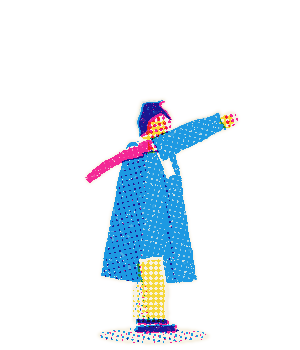
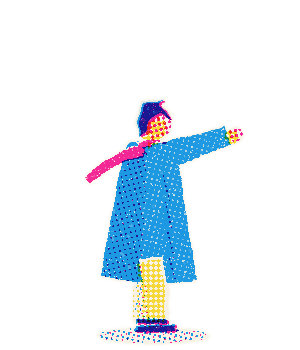
design: 안내 3·4페이지(징검다리·널뛰기) + 2페이지 남자 팔 이음 (Refs #116)
- 2026-11-03 19:30 오너: 1·2 품질 좋다 → 3·4페이지 추가, 2페이지 남자 팔이 몸과 잘려 보이는 것 수정.
- 3 징검다리: 언덕에서 흘러나와 앞으로 넓어지는 개울 · 징검돌 · 버드나무 · 물레방아 · 오리. 포니테일은 첫 돌에서 팔 벌려 균형,
  두루마기는 돌 사이를 뛰어 건너고, 쪽머리는 끝 돌. 4 널뛰기 마당: 돌담·담 기와 · 담 너머 기와·초가 지붕 · 장독대 · 오색 줄.
  포니테일은 높은 끝 위로 뛰어오르고, 두루마기는 가운데 앉아 판을 누르고, 쪽머리는 낮은 끝에 내려앉는다.
- 3페이지부터 인물 자리를 사람마다 받는다(OnboardingScroll.json figures). 1·2페이지 규칙(가운데 + 간격)은 그대로.
- 2페이지 두루마기: 든 팔 소매 뿌리를 몸 안쪽으로 넣고 둥근 어깨, 동정은 목 둘레만(흰 띠가 팔 밑으로 내려와 잘려 보였다).
- 그림은 1~4 구간(JPEG 4:4:4 q90, 약 14.4MB). 1·2페이지 카메라 화면 안 화소는 이전과 같다(달라진 곳은 화면 아래 바깥 4pt).
- 안내 테스트 712개 통과, Xcode 무서명 빌드 성공.

Claude-Session: https://claude.ai/code/session_0169kyDNcQssLsG4JY4DHaG7

Changed region(s): [[0.48, 0.3143, 0.81, 0.5143]]

diff --git a/Sources/OnboardingScroll.swift b/Sources/OnboardingScroll.swift
@@ -1,13 +1,27 @@
 import AppKit
 import SwiftUI
 
-/// 2026-11-03 (#116): 안내 1·2 두루마리 무대 — 긴 리소 그림 한 장 위를 카메라가 트럭·푸시 인 한다(앱 안에서 실시간).
+/// 2026-11-03 (#116): 안내 1~4 두루마리 무대 — 긴 리소 그림 한 장 위를 카메라가 트럭·푸시 인 한다(앱 안에서 실시간).
 /// 오너 결정(2026-11-03 17:46): 3D 세트 없이 그림 한 장 + 앱 안 카메라, 사람은 새로 그린 세 사람.
 /// 그림·카메라 정거장·인물 자리의 정본은 비공개 haneul-art `onboarding/`(scroll.py · people.py)이 내보낸
 /// OnboardingScroll.json · OnboardingPeople.json이다. 여기에 값을 옮겨 적지 않는다.
 enum OnboardingScrollArt {
     struct Station: Decodable { let page: Int; let cx: CGFloat; let cy: CGFloat; let zoom: CGFloat }
-    struct PeopleAt: Decodable { let page: Int; let x: CGFloat; let y: CGFloat; let scale: CGFloat; let spacing: CGFloat }
+    /// 인물 자리: 1·2페이지는 가운데 사람(x, y) + 간격, 3페이지부터는 사람마다(figures, PEOPLE 순서).
+    struct PeopleAt: Decodable {
+        let page: Int
+        let scale: CGFloat
+        let x: CGFloat?
+        let y: CGFloat?
+        let spacing: CGFloat?
+        let figures: [[CGFloat]]?
+
+        func foot(_ index: Int) -> CGPoint? {
+            if let figures, index < figures.count, figures[index].count == 2 { return CGPoint(x: figures[index][0], y: figures[index][1]) }
+            guard let x, let y else { return nil }
+            return CGPoint(x: x + CGFloat(index - 1) * (spacing ?? 0), y: y)
+        }
+    }
     struct Scroll: Decodable {
         let image_pt: [CGFloat]
         let stage_pt: [CGFloat]
@@ -20,7 +34,7 @@ enum OnboardingScrollArt {
     static let scroll: Scroll? = decode("OnboardingScroll")
     static let people: People? = decode("OnboardingPeople")
     static let image: CGImage? = cgImage(Bundle.main.url(forResource: "OnboardingScroll", withExtension: "jpg"))
-    /// 두루마리 그림이 있는 페이지 수(정거장 수). 2026-11-03 지금은 1·2페이지.
+    /// 두루마리 그림이 있는 페이지 수(정거장 수). 2026-11-03 지금은 1~4페이지.
     static var pageCount: Int { image == nil ? 0 : (scroll?.stations.count ?? 0) }
 
     @MainActor private static var spriteCache: [String: CGImage] = [:]
@@ -131,8 +145,8 @@ struct OnboardingScrollStage: NSViewRepresentable {
                   let at = art.people.first(where: { $0.page == page + 1 }),
                   let sprite = people.sprites["\(people.order[index])_p\(page + 1)"] else { return nil }
             let canvas = CGSize(width: sprite.canvas_pt[0], height: sprite.canvas_pt[1])
-            let x = at.x + CGFloat(index - 1) * at.spacing
-            return (CGPoint(x: x, y: art.image_pt[1] - at.y),
+            guard let foot = at.foot(index) else { return nil }
+            return (CGPoint(x: foot.x, y: art.image_pt[1] - foot.y),
                     CGRect(origin: .zero, size: CGSize(width: canvas.width * at.scale, height: canvas.height * at.scale)),
                     CGPoint(x: sprite.anchor_pt[0] / canvas.width, y: 1 - sprite.anchor_pt[1] / canvas.height))
         }
